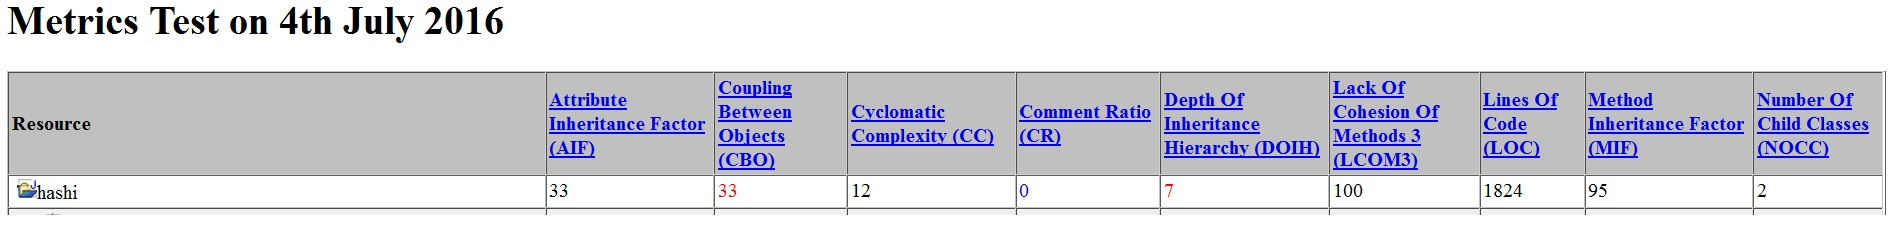
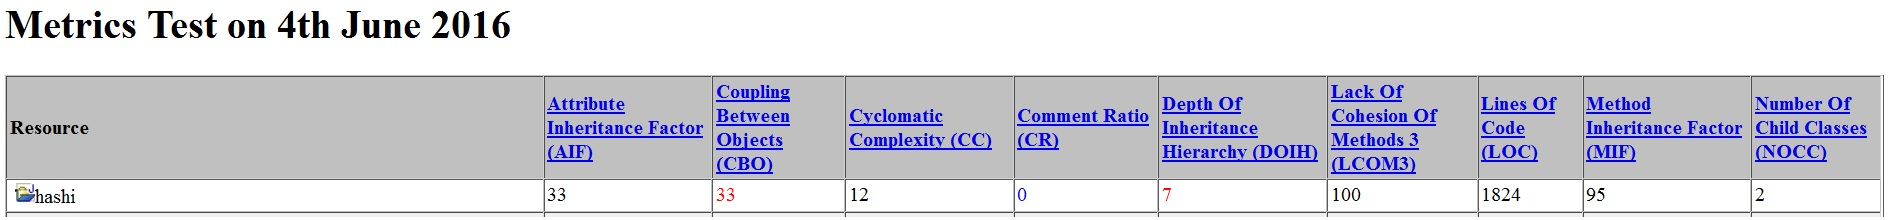
Datum metricTests korrigiert

diff --git a/documentation/metricTests/metricTest-04062016.html b/documentation/metricTests/metricTest-04062016.html
@@ -4,7 +4,7 @@
 <title>Metrics Test on 4th July 2016</title>
 </head>
 <body>
-<h1>Metrics Test on 4th July 2016</h1>
+<h1>Metrics Test on 4th June 2016</h1>
 <table width="100%" border="1" cellpadding="2" cellspacing="0">
 <colgroup span="1" width="0*"><colgroup span="10" width="1*">
 <tr bgcolor=#C0C0C0><td><b>Resource</b></td><td><b><a target="_blank" href=report/information/AIF.html>Attribute Inheritance Factor (AIF)</a></b></td><td><b><a target="_blank" href=report/information/CBO.html>Coupling Between Objects (CBO)</a></b></td><td><b><a target="_blank" href=report/information/CC.html>Cyclomatic Complexity (CC)</a></b></td><td><b><a target="_blank" href=report/information/CR.html>Comment Ratio (CR)</a></b></td><td><b><a target="_blank" href=report/information/DOIH.html>Depth Of Inheritance Hierarchy (DOIH)</a></b></td><td><b><a target="_blank" href=report/information/LCOM3.html>Lack Of Cohesion Of Methods 3 (LCOM3)</a></b></td><td><b><a target="_blank" href=report/information/LOC.html>Lines Of Code (LOC)</a></b></td><td><b><a target="_blank" href=report/information/MIF.html>Method Inheritance Factor (MIF) </a></b></td><td><b><a target="_blank" href=report/information/NOCC.html>Number Of Child Classes (NOCC)</a></b></td></tr>

diff --git a/documentation/metricTests/metricTest-06062016.html b/documentation/metricTests/metricTest-06062016.html
@@ -4,7 +4,7 @@
 <title>Metrics Test on 6th July 2016</title>
 </head>
 <body>
-<h1>Metrics Test on 6th July 2016</h1>
+<h1>Metrics Test on 6th June 2016</h1>
 <table width="100%" border="1" cellpadding="2" cellspacing="0">
 <colgroup span="1" width="0*"><colgroup span="10" width="1*">
 <tr bgcolor=#C0C0C0><td><b>Resource</b></td><td><b><a target="_blank" href=report/information/AIF.html>Attribute Inheritance Factor (AIF)</a></b></td><td><b><a target="_blank" href=report/information/CBO.html>Coupling Between Objects (CBO)</a></b></td><td><b><a target="_blank" href=report/information/CC.html>Cyclomatic Complexity (CC)</a></b></td><td><b><a target="_blank" href=report/information/CR.html>Comment Ratio (CR)</a></b></td><td><b><a target="_blank" href=report/information/DOIH.html>Depth Of Inheritance Hierarchy (DOIH)</a></b></td><td><b><a target="_blank" href=report/information/LCOM3.html>Lack Of Cohesion Of Methods 3 (LCOM3)</a></b></td><td><b><a target="_blank" href=report/information/LOC.html>Lines Of Code (LOC)</a></b></td><td><b><a target="_blank" href=report/information/MIF.html>Method Inheritance Factor (MIF) </a></b></td><td><b><a target="_blank" href=report/information/NOCC.html>Number Of Child Classes (NOCC)</a></b></td></tr>
